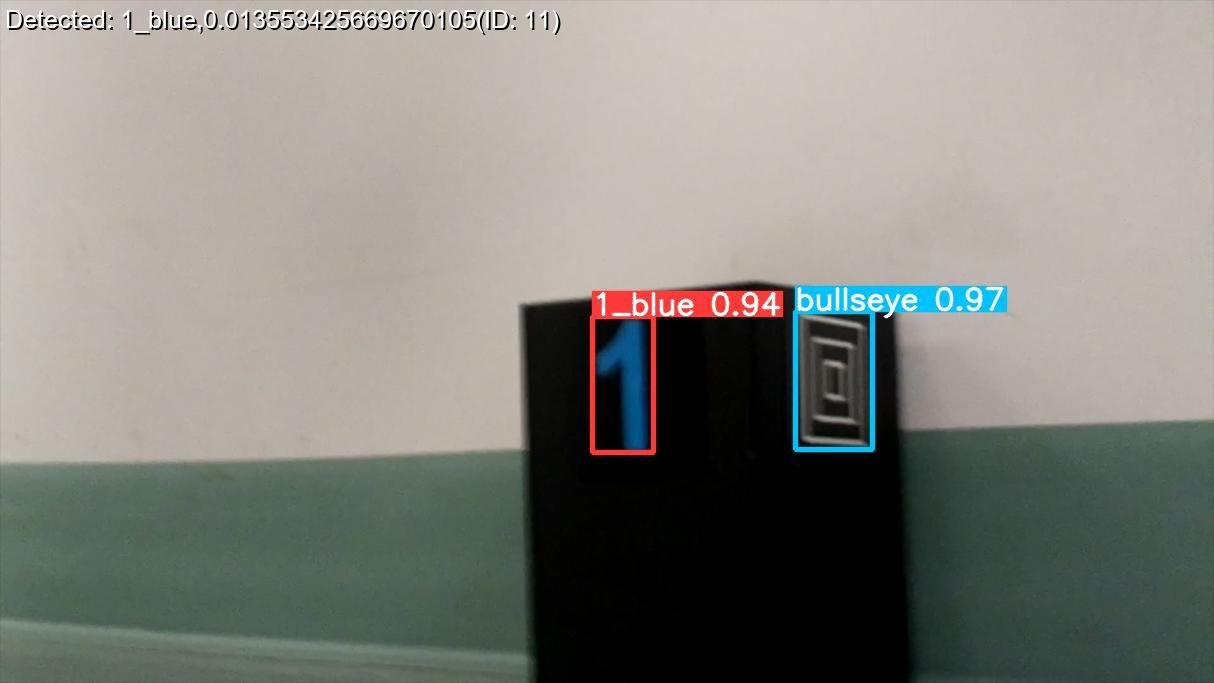
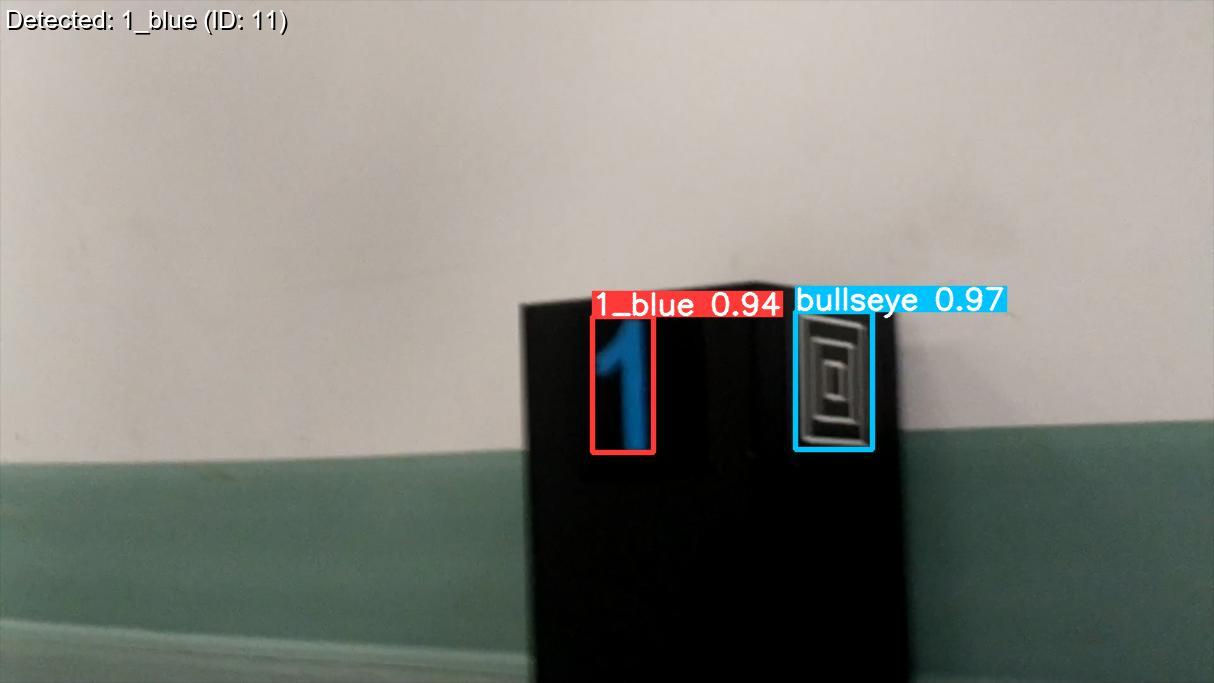
Minor fix to debug mode text

Changed region(s): [[0.1524, 0.0, 0.4572, 0.0615]]

diff --git a/src/ImageRecognitionServer.py b/src/ImageRecognitionServer.py
@@ -56,7 +56,7 @@ def main():
         startTime = time.time()
         #resizeImage(IMAGE_PATH)
         msg, detectionString = SymbolRec.ProcessSourceImages(IMAGE_PATH, SAVE_PATH, SAVE_RESULTS)
-        print("Detected: " + msg + " | Time taken: " + "{:.2f}s".format(time.time() - startTime))
+        print("Detected: " + detectionString + " | Time taken: " + "{:.2f}s".format(time.time() - startTime))
         modifyInferenceImage(SAVE_PATH, DEBUG_IMAGE, detectionString)
         createInferenceCollage(SAVE_PATH)
     else: serverProcess()
